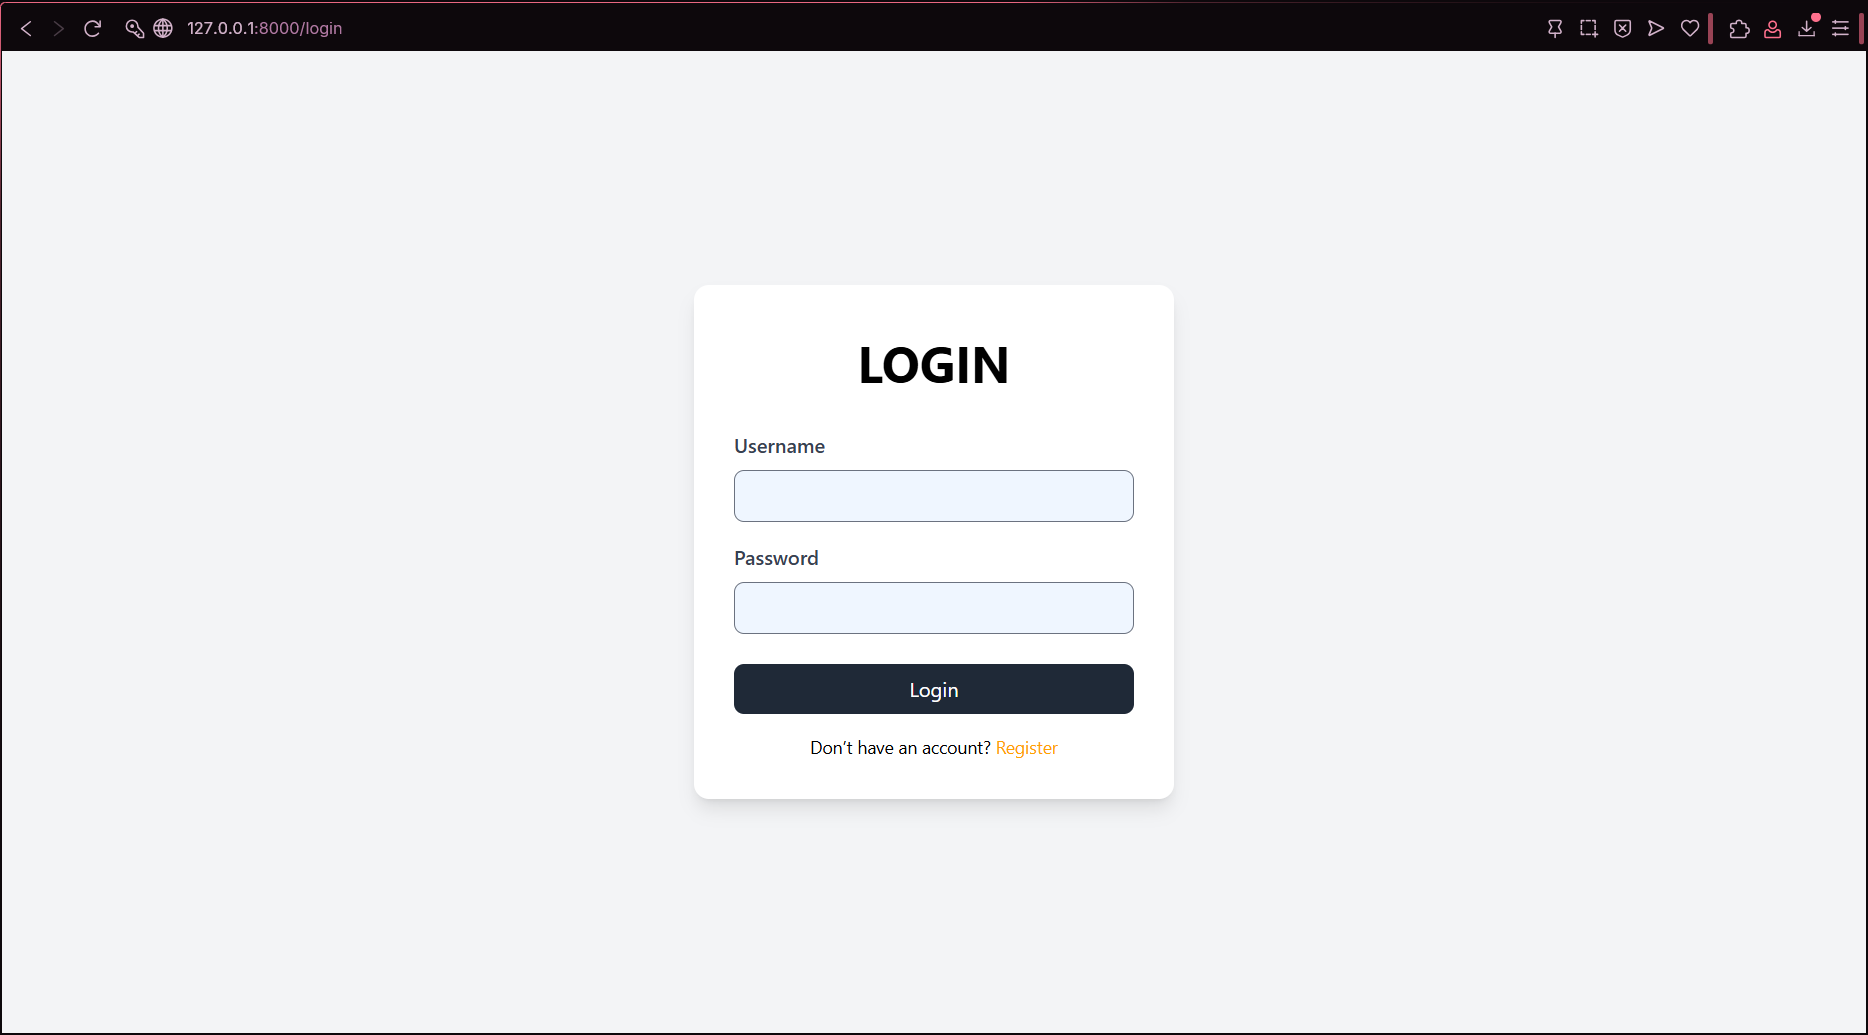
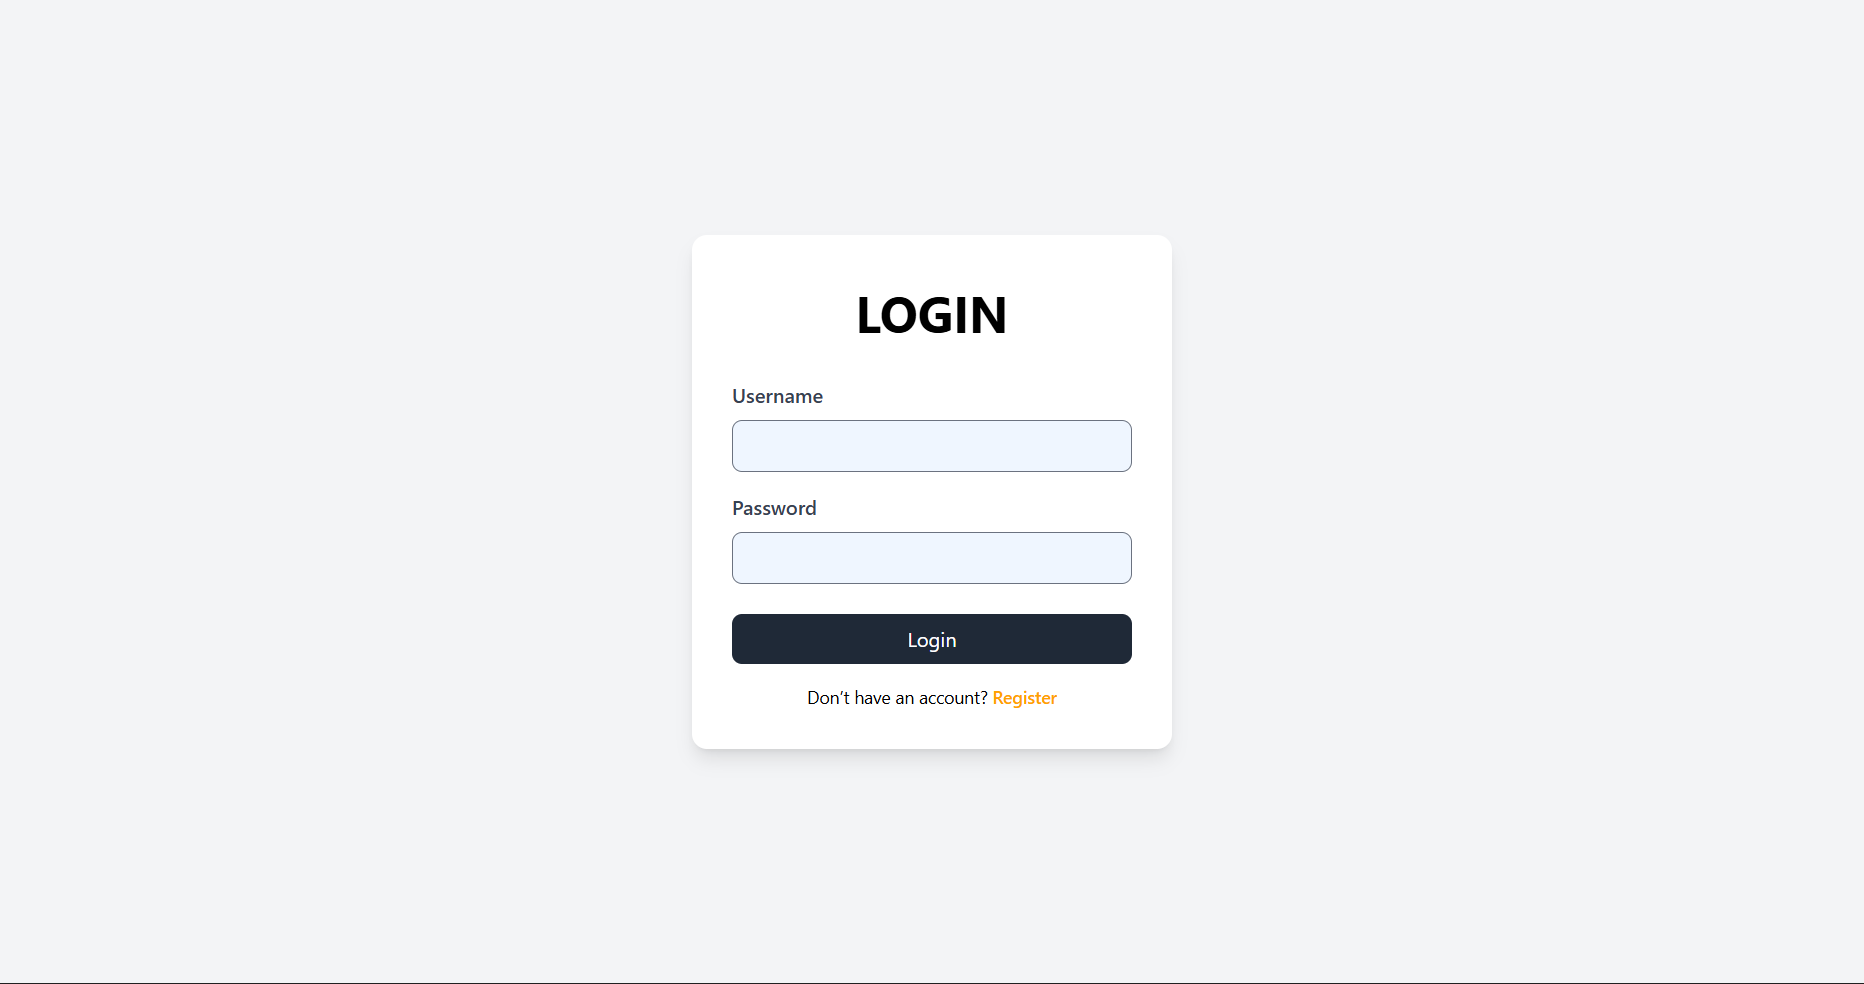
New Images

diff --git a/app/Http/Controllers/HistoryReservationController.php b/app/Http/Controllers/HistoryReservationController.php
@@ -3,27 +3,27 @@
 namespace App\Http\Controllers;
 
 use Illuminate\Http\Request;
-use App\Models\Reservation; // pastikan model sudah ada
+use App\Models\Reservation;
 use Illuminate\Support\Facades\Auth;
 
 class HistoryReservationController extends Controller
 {
-    // Menampilkan daftar history reservation
     public function index()
     {
-        // ambil user yang login
         $user = Auth::user();
 
-        // ambil reservations yang sudah selesai
+        // PERBAIKAN:
+        // Saya menghapus ->where('status', 'completed')
+        // Agar status 'approved', 'pending', dan 'rejected' SEMUA MUNCUL.
+        
         $history = Reservation::where('user_id', $user->id)
-                              ->where('status', 'completed')
-                              ->orderBy('created_at', 'desc')
-                              ->get();
+                              ->latest() // Sama dengan orderBy('created_at', 'desc')
+                              ->get();   // Atau gunakan ->paginate(10) jika data banyak
 
+        // Pastikan view kamu namanya benar
         return view('history_reservations.index', compact('history'));
     }
 
-    // Menampilkan detail reservation tertentu
     public function show($id)
     {
         $user = Auth::user();
